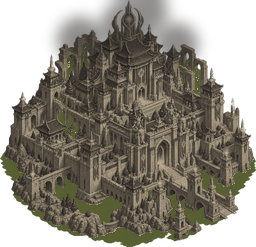
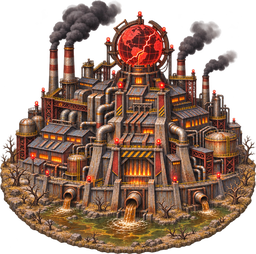
메가팩토리 새 그림 (선생님이 만든 그림을 256px로), 그림에 매연이 있으면 지도 매연은 생략
Claude-Session: https://claude.ai/code/session_01EjMwpKZC7j6Nw6VtGGwGjb

diff --git a/trade/index.html b/trade/index.html
@@ -7,16 +7,16 @@
 <link rel="preconnect" href="https://fonts.googleapis.com">
 <link rel="preconnect" href="https://fonts.gstatic.com" crossorigin>
 <link href="https://fonts.googleapis.com/css2?family=Black+Han+Sans&family=Jua&family=Noto+Sans+KR:wght@500;700&display=swap" rel="stylesheet">
-<link rel="stylesheet" href="css/style.css?v=18">
+<link rel="stylesheet" href="css/style.css?v=19">
 <script src="https://cdn.jsdelivr.net/npm/@supabase/supabase-js@2.116.0/dist/umd/supabase.js"></script>
-<script src="js/config.js?v=18"></script>
-<script src="js/rules.js?v=18"></script>
-<script src="js/api.js?v=18"></script>
-<script src="js/hexmap.js?v=18"></script>
-<script src="js/brand.js?v=18"></script>
+<script src="js/config.js?v=19"></script>
+<script src="js/rules.js?v=19"></script>
+<script src="js/api.js?v=19"></script>
+<script src="js/hexmap.js?v=19"></script>
+<script src="js/brand.js?v=19"></script>
 </head>
 <body>
 <div id="app"></div>
-<script src="js/student.js?v=18"></script>
+<script src="js/student.js?v=19"></script>
 </body>
 </html>

diff --git a/trade/admin.html b/trade/admin.html
@@ -7,16 +7,16 @@
 <link rel="preconnect" href="https://fonts.googleapis.com">
 <link rel="preconnect" href="https://fonts.gstatic.com" crossorigin>
 <link href="https://fonts.googleapis.com/css2?family=Black+Han+Sans&family=Jua&family=Noto+Sans+KR:wght@500;700&display=swap" rel="stylesheet">
-<link rel="stylesheet" href="css/style.css?v=18">
+<link rel="stylesheet" href="css/style.css?v=19">
 <script src="https://cdn.jsdelivr.net/npm/@supabase/supabase-js@2.116.0/dist/umd/supabase.js"></script>
-<script src="js/config.js?v=18"></script>
-<script src="js/rules.js?v=18"></script>
-<script src="js/api.js?v=18"></script>
-<script src="js/hexmap.js?v=18"></script>
-<script src="js/brand.js?v=18"></script>
+<script src="js/config.js?v=19"></script>
+<script src="js/rules.js?v=19"></script>
+<script src="js/api.js?v=19"></script>
+<script src="js/hexmap.js?v=19"></script>
+<script src="js/brand.js?v=19"></script>
 </head>
 <body>
 <div id="app"></div>
-<script src="js/admin.js?v=18"></script>
+<script src="js/admin.js?v=19"></script>
 </body>
 </html>

diff --git a/trade/board.html b/trade/board.html
@@ -7,16 +7,16 @@
 <link rel="preconnect" href="https://fonts.googleapis.com">
 <link rel="preconnect" href="https://fonts.gstatic.com" crossorigin>
 <link href="https://fonts.googleapis.com/css2?family=Black+Han+Sans&family=Jua&family=Noto+Sans+KR:wght@500;700&display=swap" rel="stylesheet">
-<link rel="stylesheet" href="css/style.css?v=18">
+<link rel="stylesheet" href="css/style.css?v=19">
 <script src="https://cdn.jsdelivr.net/npm/@supabase/supabase-js@2.116.0/dist/umd/supabase.js"></script>
-<script src="js/config.js?v=18"></script>
-<script src="js/rules.js?v=18"></script>
-<script src="js/api.js?v=18"></script>
-<script src="js/hexmap.js?v=18"></script>
-<script src="js/brand.js?v=18"></script>
+<script src="js/config.js?v=19"></script>
+<script src="js/rules.js?v=19"></script>
+<script src="js/api.js?v=19"></script>
+<script src="js/hexmap.js?v=19"></script>
+<script src="js/brand.js?v=19"></script>
 </head>
 <body>
 <div id="app"></div>
-<script src="js/board.js?v=18"></script>
+<script src="js/board.js?v=19"></script>
 </body>
 </html>

diff --git a/trade/js/hexmap.js b/trade/js/hexmap.js
@@ -229,7 +229,7 @@
           else if (IMG['c:' + city.art]) drawImgAnchor(im, x, y, city.boss ? 230 : city.rebel ? 200 : city.art === 'final' ? 190 : big ? 150 : 140);   // GPT 도시 그림: 기준점(가로 50%, 세로 83%)을 칸 중심에
           else drawImgBottom(im, x, y + HALF_H * 0.75, big ? 132 : 104);
           ctx.restore();
-          if (fac) smoke(x, y);
+          if (fac && !IMG['c:factory']) smoke(x, y);   // 새 그림에는 매연이 이미 있어요
           if (city.country) drawFlag(city.country, x + 26, y - 30, big ? 1.2 : 0.9);
           // 이름표
           const label = big ? (st.countries[city.country] ? st.countries[city.country].name : city.name) : city.name;
